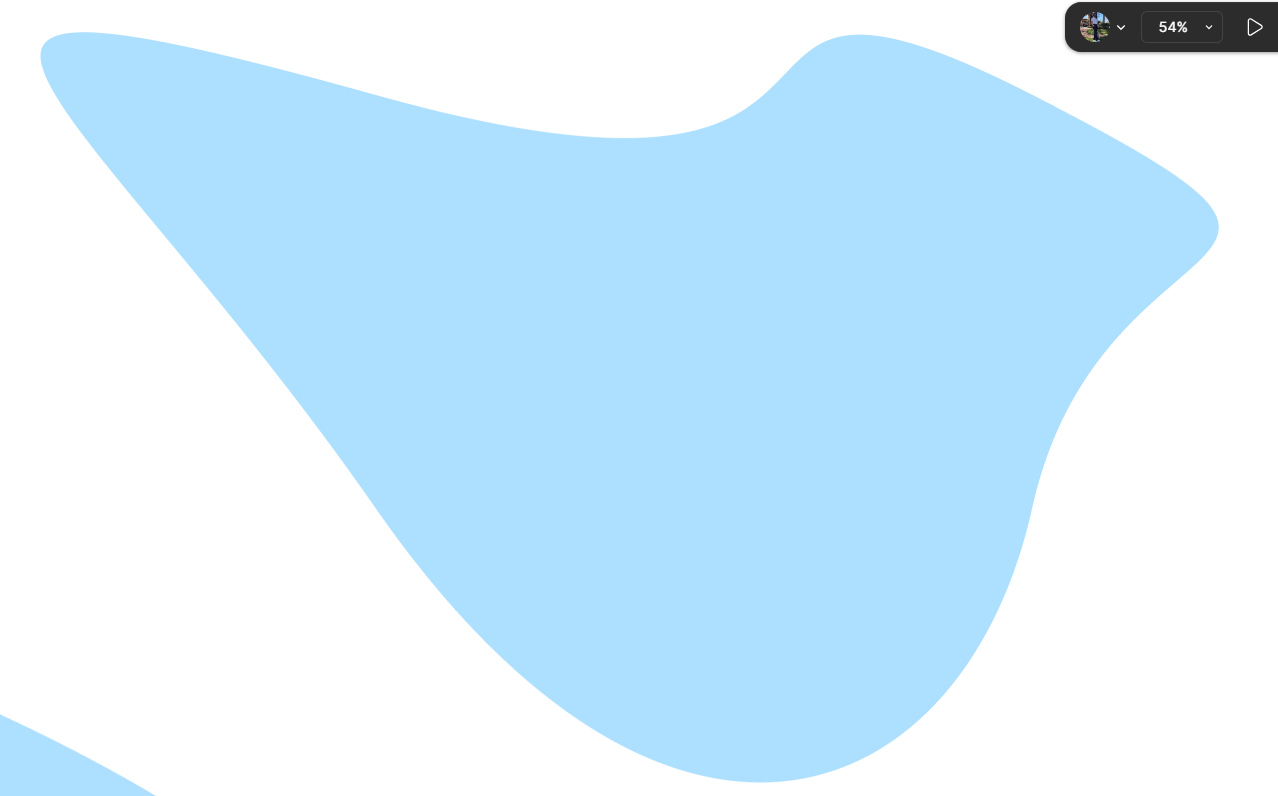
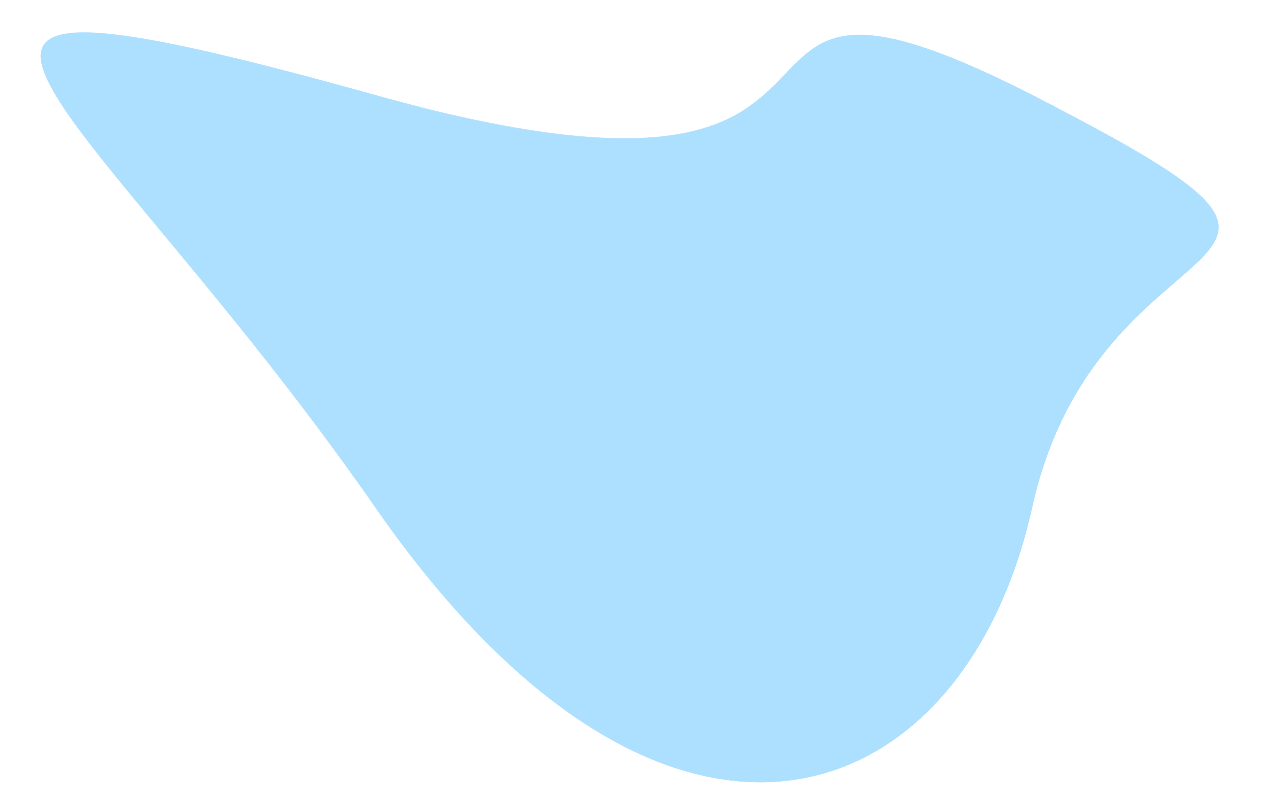
AboutUs v1

Changed region(s): [[0.8239, 0.0, 1.0, 0.0905], [0.0, 0.9045, 0.1221, 1.0]]

diff --git a/ManageIT/index.html b/ManageIT/index.html
@@ -8,7 +8,7 @@
     <link href="Source/CSS/styles.css" rel="stylesheet">
     <link rel="icon" href="Assets/Images/ManageIT_Logo.png">  
 
-    <title>My Web</title>
+    <title>ManageIT | AVR Inventory System</title>
 </head>
 
 <body>
@@ -56,6 +56,15 @@
         </div>
     </div>
 
+    <img id="CurveShape1" src="Assets/Images/CurveShapes.png">
+
+
+    <div id="AboutUsSection">
+        <span id="AboutUsTexts">
+            <h1>About Us</h1> 
+            <p>Lorem ipsum dolor sit amet, consectetur adipiscing elit, sed do eiusmod tempor incididunt ut labore et dolore magna aliqua. Ut enim ad minim veniam, quis nostrud exercitation ullamco laboris nisi ut aliquip ex ea commodo consequat. Duis aute irure dolor in reprehenderit in voluptate velit esse cillum dolore eu fugiat nulla pariatur. Excepteur sint occaecat cupidatat non proident, sunt in culpa qui officia deserunt mollit anim id est </p>
+        </span>
+    </div>
 </body>
 </html>
 

diff --git a/ManageIT/Source/CSS/styles.css b/ManageIT/Source/CSS/styles.css
@@ -3,6 +3,7 @@ body {
     font-family: 'Poppins', sans-serif;
     height: 3000px;
     background-color: #FFFFFF;
+    scroll-behavior: smooth;
 }
 
 * { /*Set sizing perfect. */
@@ -190,6 +191,7 @@ body {
 }
 
 #LoginForm form input[type="text"]{
+    padding: 10px;
     font-family: 'Poppins', sans-serif;
     border-radius: 15px;
     width: 90%;
@@ -213,3 +215,33 @@ body {
     border: none;
 }
 /* Hero Section */
+
+
+
+
+
+
+
+
+/* About Us Section */
+
+#AboutUsSection{
+    width: 100%;
+    height: 40vw;
+    display: flex;
+    align-items: center;
+}
+#AboutUsTexts{
+    width: 500px;
+}
+#AboutUsSection h1{
+    font-family: 'Poppins', sans-serif;
+    font-size: 30px;
+}
+#CurveShape1{
+    z-index: -10;
+    position: absolute;
+    top: 30vw;
+    left: 30vw;
+    height: 55vw;
+}
